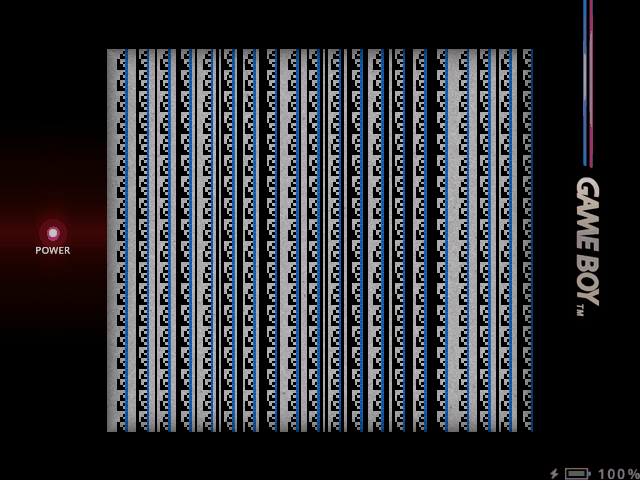
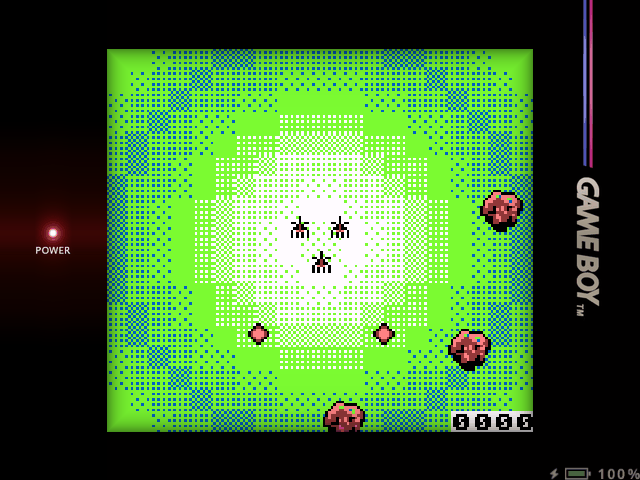
README: Integer Scale screenshots, Classic shots with real games
Classic GB/GBC screenshots retaken with open-source games instead of the
demo pattern, each beside the same screen with Integer Scale on, plus the
in-game Integer Scale row. Games: Wyrmhole by Quinn Painter (MIT) and
µCity by AntonioND (GPLv3), credited under each pair.

diff --git a/README.md b/README.md
@@ -97,14 +97,33 @@ short:
 
 # Screenshots
 
-<p align="center">
-<img src=".github/resources/screenshots/fork-classic-gb.png" width="60%" alt="A Game Boy game with the Classic bezel: POWER light on the left, the GAME BOY logo and stripes on the right, the battery badge bottom-right, no black bars"><br>
-<em>The Classic Game Boy bezel, made for the RG35XXSP's 640x480 screen, with the battery badge.</em>
-</p>
+<table align="center">
+<tr>
+<td align="center" width="50%"><img src=".github/resources/screenshots/fork-classic-gb.png" width="420" alt="Wyrmhole, a Game Boy game, with the Classic bezel: POWER light on the left, the GAME BOY logo and stripes on the right, the battery badge bottom-right, no black bars"><br>
+<em>Classic Game Boy bezel, made for the RG35XXSP's 640x480 screen, with the battery badge.</em></td>
+<td align="center" width="50%"><img src=".github/resources/screenshots/fork-integer-gb.png" width="420" alt="The same Wyrmhole screen drawn at exactly 3x in the Classic Game Boy bezel: every game pixel is the same size, battery badge bottom-right"><br>
+<em>Same game with Integer Scale: exactly 3x, in the Classic bezel cut for it.</em></td>
+</tr>
+<tr>
+<td align="center" colspan="2"><em>Game: <a href="https://github.com/QuinnPainter/Wyrmhole">Wyrmhole</a> by Quinn Painter (MIT).</em></td>
+</tr>
+</table>
+
+<table align="center">
+<tr>
+<td align="center" width="50%"><img src=".github/resources/screenshots/fork-classic-gbc.png" width="420" alt="A city in µCity, a Game Boy Color game, with the Classic bezel: POWER light on the left, the GAME BOY COLOR logo on the right, the battery badge bottom-right"><br>
+<em>Classic Game Boy Color bezel.</em></td>
+<td align="center" width="50%"><img src=".github/resources/screenshots/fork-integer-gbc.png" width="420" alt="The same µCity city drawn at exactly 3x in the Classic Game Boy Color bezel, battery badge bottom-right"><br>
+<em>Same game with Integer Scale.</em></td>
+</tr>
+<tr>
+<td align="center" colspan="2"><em>Game: <a href="https://github.com/AntonioND/ucity">µCity</a> by AntonioND (GPLv3).</em></td>
+</tr>
+</table>
 
 <p align="center">
-<img src=".github/resources/screenshots/fork-classic-gbc.png" width="60%" alt="A Game Boy Color game with the Classic bezel: POWER light on the left, the GAME BOY COLOR logo on the right, the battery badge bottom-right"><br>
-<em>The Classic Game Boy Color bezel.</em>
+<img src=".github/resources/screenshots/fork-integer-setting.png" width="60%" alt="The in-game Screen menu over µCity, with Integer Scale selected and on, under Shader, Color Correction and Bezel"><br>
+<em>Integer Scale in the in-game Screen menu.</em>
 </p>
 
 <p align="center">
